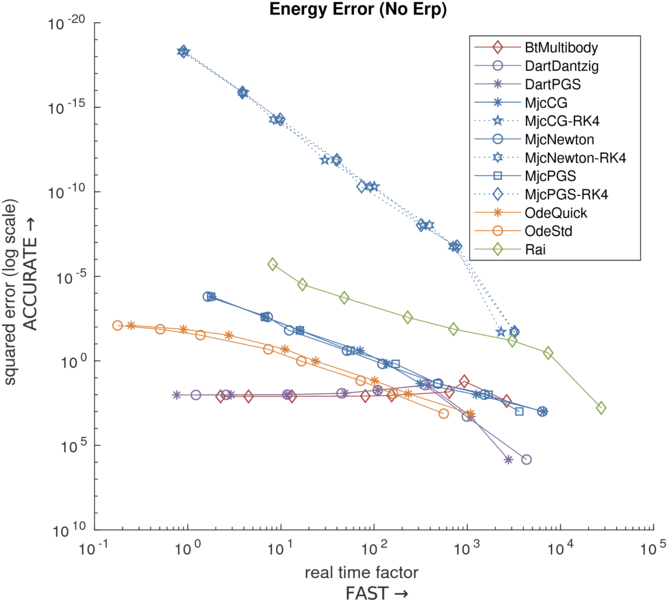
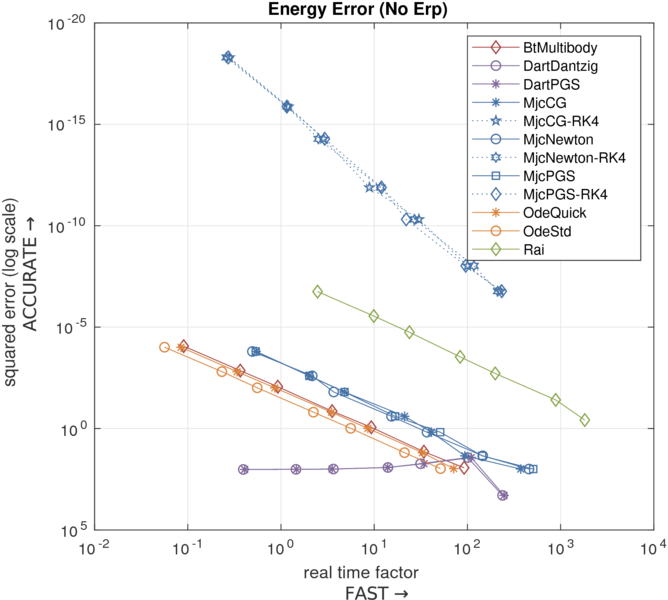
- anymal energy tested

diff --git a/sim/bulletMultibodySim/src/object/BtMbArticulatedSystem.cpp b/sim/bulletMultibodySim/src/object/BtMbArticulatedSystem.cpp
@@ -814,7 +814,7 @@ double object::BtMbArticulatedSystem::getKineticEnergy() {
       benchmark::Vec<3> compos;
       getComPose_W(i-1, compos, comrotmat);
       benchmark::Mat<3,3> I_w;
-      benchmark::similarityTransform(comrotmat, inertia_[i], I_w);
+      benchmark::similarityTransform(comrotmat, inertia_[i], I_w);    // checked!
 
       double angular = 0;
       benchmark::vecTransposeMatVecMul(comAngVel, I_w, angular);
@@ -922,7 +922,12 @@ void object::BtMbArticulatedSystem::getComVelocity_W(int linkId, benchmark::Vec<
     };
     benchmark::Mat<3,3> rotmat;
     benchmark::quatToRotMat(quaternion, rotmat);
-    benchmark::matvecmul(rotmat, {bAngvel.x(), bAngvel.y(), bAngvel.z()}, angVel_w);
+
+    angVel_w = {
+        bAngvel.x(),
+        bAngvel.y(),
+        bAngvel.z()
+    };
 
     benchmark::Vec<3> r_w;
     linVel_w = {
@@ -931,7 +936,7 @@ void object::BtMbArticulatedSystem::getComVelocity_W(int linkId, benchmark::Vec<
         bLinVel.z(),
     };
     benchmark::matvecmul(rotmat, localInertialPos_[0], r_w);
-    benchmark::crossThenAdd({bAngvel.x(), bAngvel.y(), bAngvel.z()}, r_w, linVel_w);
+    benchmark::crossThenAdd(angVel_w, r_w, linVel_w);
   }
   else {
 
@@ -944,14 +949,11 @@ void object::BtMbArticulatedSystem::getComVelocity_W(int linkId, benchmark::Vec<
         state.m_worldLinearVelocity[2]
     };
 
-    benchmark::Vec<3> bodyAngVel_w = {
+    benchmark::Vec<3> angVel_w = {
         state.m_worldAngularVelocity[0],
         state.m_worldAngularVelocity[1],
         state.m_worldAngularVelocity[2]
     };
-
-//    angVel_w = bodyAngVel_w;
-    benchmark::matvecmul(localInertialR_[linkId+1], bodyAngVel_w, angVel_w);
   }
 }
 
@@ -999,9 +1001,7 @@ void object::BtMbArticulatedSystem::getComPose_W(int linkId, benchmark::Vec<3> &
         linkState.m_worldOrientation[1],  // y
         linkState.m_worldOrientation[2]   // z
     };
-    benchmark::Mat<3,3> rotmat;
-    benchmark::quatToRotMat(quat, rotmat);
-    benchmark::matmul(rotmat, localInertialR_[linkId+1], inertialOrientation_w);
+    benchmark::quatToRotMat(quat, inertialOrientation_w);
   }
 }
 

diff --git a/sim/bulletMultibodySim/demo/AnymalEnergyDemo.cpp b/sim/bulletMultibodySim/demo/AnymalEnergyDemo.cpp
@@ -34,20 +34,20 @@ int main(int argc, const char* argv[]) {
        -0.03, 0.4, -0.8,
        0.03, -0.4, 0.8,
        -0.03, -0.4, 0.8});
-//  anymal->setGeneralizedCoordinate(
-//      {0, 0, 10,
-//       1.0, 0.0, 0.0, 0.0,
-//       0, 0, 0,
-//       0, 0, 0,
-//       0, 0, 0,
-//       0, 0, 0});
-  anymal->setGeneralizedVelocity(
-      {0, 0, 0,
-       0.2, 1.0, 0.5,
-       0.0, 0.0, 0.0,
-       0.0, 0.0, 0.0,
-       0.0, 0.0, 0.0,
-       0.0, 0.0, 0.0});
+  anymal->setGeneralizedCoordinate(
+      {0, 0, 10,
+       1.0, 0.0, 0.0, 0.0,
+       0, 0, 0,
+       0, 0, 0,
+       0, 0, 0,
+       0, 0, 0});
+//  anymal->setGeneralizedVelocity(
+//      {0, 0, 0,
+//       0.2, 1.0, 0.5,
+//       0.0, 0.0, 0.0,
+//       0.0, 0.0, 0.0,
+//       0.0, 0.0, 0.0,
+//       0.0, 0.0, 0.0});
   RAIINFO(anymal->getGeneralizedVelocity())
 
   double g = 0;

diff --git a/etc/matlab/plot-gen/anymal_energy.m b/etc/matlab/plot-gen/anymal_energy.m
@@ -80,6 +80,14 @@ speed = numIter ./ T2.TIME ./ 1000;
 
 disp('plotting bar graph')
 h = figure('Name', 'speed', 'Position', [0, 0, 720, 600]);
+set(gca, ...
+    'XTick', {}, ...
+    'YMinorTick', 'off', ...
+    'XMinorTick', 'off', ...
+    'YMinorGrid', 'off', ...
+    'XMinorGrid', 'off')
+box on 
+% grid on
 hold on
 for i = 1:size(T2, 1)
     data = T2(i, :);

diff --git a/sim/raiSim/demo/AnymalEnergyDemo.cpp b/sim/raiSim/demo/AnymalEnergyDemo.cpp
@@ -19,7 +19,7 @@ int main(int argc, const char* argv[]) {
   std::string urdfPath(__FILE__);
   while (urdfPath.back() != '/')
     urdfPath.erase(urdfPath.size() - 1, 1);
-  urdfPath += "../../../res/ANYmal-energy-demo/robot.urdf";
+  urdfPath += "../../../res/ANYmal-energy/robot.urdf";
 
   rai_sim::World_RG sim(800, 600, 0.5, rai_sim::NO_BACKGROUND);
 
